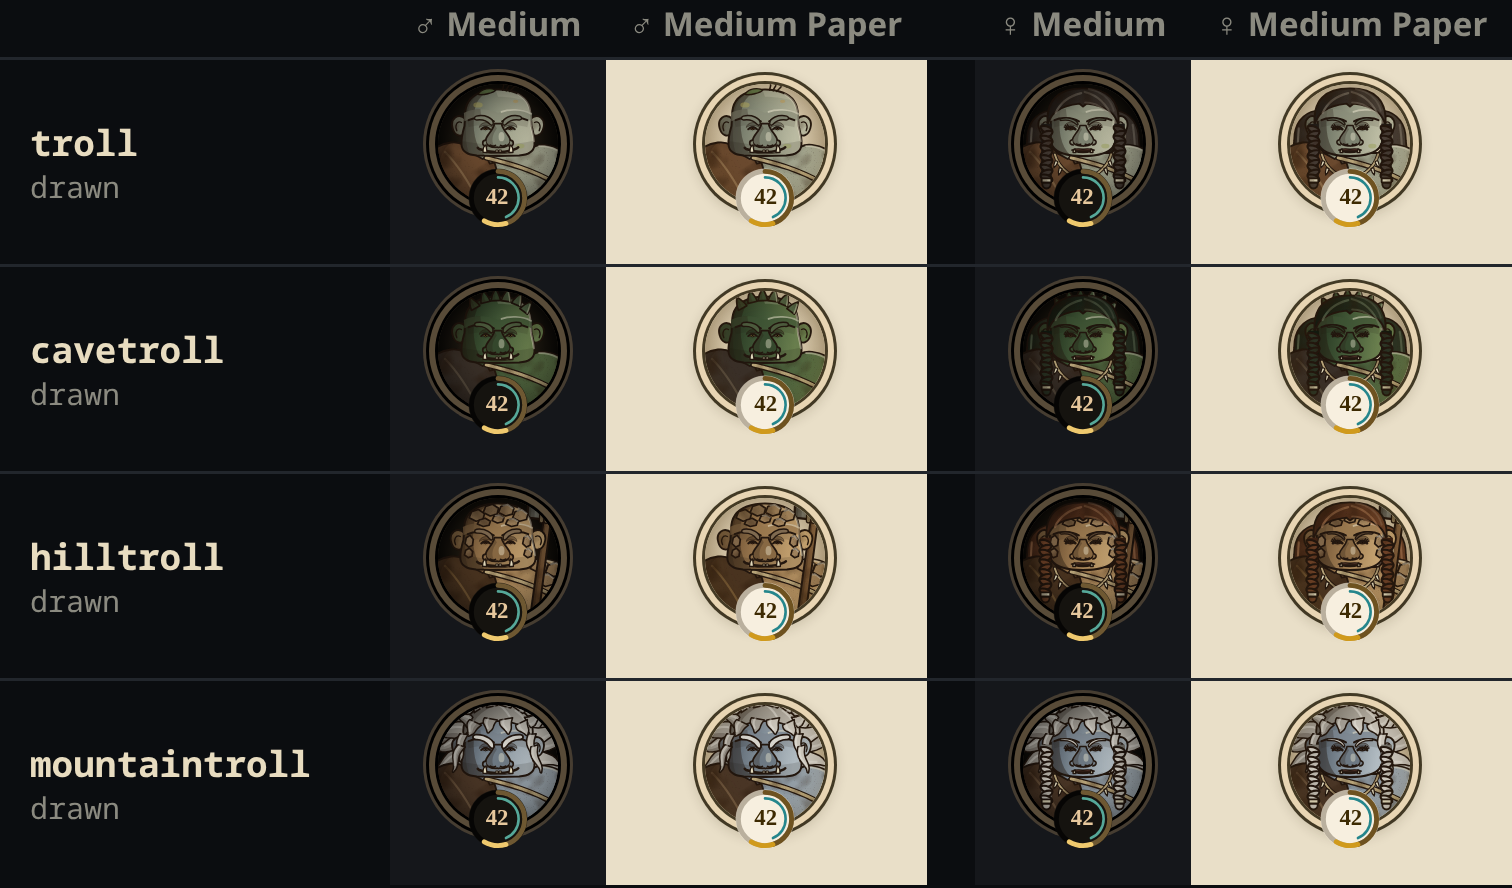
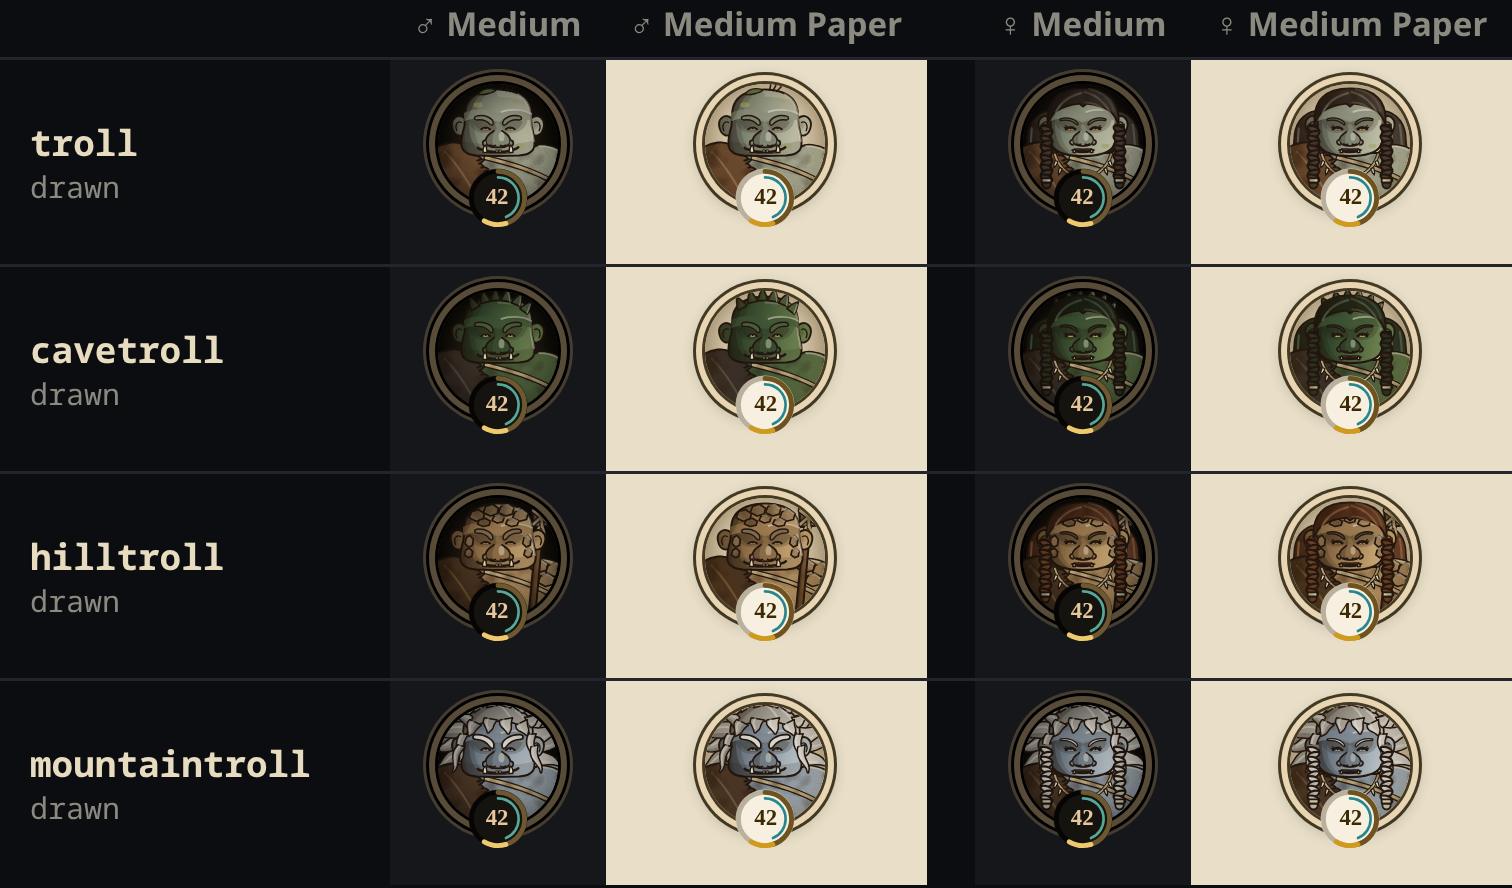
fix(portraits): trolls without spectacles, a curved cheek shade, a square maul, a ragged pelt
Claude-Session: https://claude.ai/code/session_01Fx3riSE2eMf87VxUMhb19J

diff --git a/notes/research/portraits/stage/draw/trolls.ts b/notes/research/portraits/stage/draw/trolls.ts
@@ -18,7 +18,7 @@
 
 import type { Draw, PortraitSet } from '../../../../../src/panes/portraits/types';
 import { dark, light } from '../../../../../src/art/engrave';
-import { type BrowO, type Ctx, type EyeO, type HairCols, INK, baseDefs, braid, ctx, eyes, lg, longHair, mir, mix, n, pen, strands, svg, wx } from '../parts';
+import { type BrowO, type Ctx, type EyeO, type HairCols, INK, baseDefs, braid, brow, ctx, lg, longHair, mir, mix, n, pen, strands, svg, wx } from '../parts';
 
 /** One troll: everything a kind or a sex changes. */
 interface Spec {
@@ -78,8 +78,9 @@ const mirG = (s: string): string => `<g transform="scale(-1,1)">${s}</g>`;
 
 const face = (c: Ctx, s: Spec): string => {
   const j = s.jaw, t = s.tall, top = -64 - t, F = headPath(c, s);
-  const sh = wx(`M-30,${top + 3}C-46,${top + 9} -56,-42 -56,-22L-57,-4C-60,6 -63,16 -62,28C-61,39 -51,45 -36,46L-22,46C-40,30 -44,0 -40,-28C-38,-46 -30,${top + 8} -14,${top - 1}Z`, j);
-  const edge = wx(`M-30,${top + 3}C-46,${top + 9} -56,-42 -56,-22L-57,-4C-60,6 -63,16 -62,28C-61,36 -56,42 -48,44C-56,30 -56,0 -52,-24C-50,-40 -42,${top + 9} -24,${top + 1}Z`, j);
+  const sh = wx(`M-30,${top + 3}C-46,${top + 9} -56,-42 -56,-22L-57,-4C-60,6 -63,16 -62,28C-61,39 -51,45 -36,46C-24,47 -14,47 -6,46C-28,40 -38,24 -40,4C-42,-20 -36,${top + 18} -12,${top - 1}Z`, j);
+  const mid = wx(`M-30,${top + 3}C-46,${top + 9} -56,-42 -56,-22L-57,-4C-60,6 -63,16 -62,28C-61,39 -51,45 -36,46C-30,46 -24,46 -20,45C-40,36 -48,18 -49,0C-50,-22 -44,${top + 14} -22,${top + 1}Z`, j);
+  const edge = wx(`M-30,${top + 3}C-46,${top + 9} -56,-42 -56,-22L-57,-4C-60,6 -63,16 -62,28C-61,36 -56,42 -48,44C-57,32 -58,10 -56,-8C-55,-30 -48,${top + 10} -26,${top + 2}Z`, j);
   const scales = s.top === 'scales' ? `<path d="${F}" fill="${c.url('z')}" stroke="none"/>` : '';
   // the brow ledge, a shelf of stone over the eyes, and its shadow
   const ledge = wx('M-58,-26C-44,-36 -14,-34 0,-26C14,-34 44,-36 58,-26L57,-12C44,-19 16,-18 0,-10C-16,-18 -44,-19 -57,-12Z', j);
@@ -91,25 +92,36 @@ const face = (c: Ctx, s: Spec): string => {
   const jaw = c.fem
     ? `<path d="${wx('M-36,38C-24,45 -10,47 0,47C12,47 26,44 36,38C26,46 12,50 0,50C-12,50 -26,46 -36,38Z', j)}" fill="#1e170f" opacity=".22" stroke="none"/>`
     : `<path d="${wx('M-60,22Q0,34 61,21C62,32 54,44 36,46L0,47L-36,46C-54,44 -61,34 -60,22Z', j)}" fill="#1e170f" opacity=".14" stroke="none"/>`;
-  return `<path d="${F}" fill="${c.url('s')}" stroke-width="1.3"/>${scales}<path d="${sh}" fill="#1e170f" opacity=".22" stroke="none"/><path d="${sh}" fill="${c.url('p')}" stroke="none"/><path d="${edge}" fill="${c.url('q')}" stroke="none"/>` +
+  return `<path d="${F}" fill="${c.url('s')}" stroke-width="1.3"/>${scales}<path d="${sh}" fill="#1e170f" opacity=".16" stroke="none"/><path d="${mid}" fill="#1e170f" opacity=".1" stroke="none"/><path d="${mid}" fill="${c.url('p')}" stroke="none"/><path d="${edge}" fill="${c.url('q')}" stroke="none"/>` +
     `<path d="${wx(`M-4,${top - 1}C14,${top - 1} 34,${top + 5} 46,${top + 16}C38,${top + 14} 20,${top + 10} 0,${top + 10}Z`, j)}" fill="#f4eed6" opacity=".2" stroke="none"/>` +
     `<path d="${wx(`M34,${top + 6}C48,${top + 14} 55,-40 55,-24L56,-4C58,6 60,14 61,22`, j)}" fill="none" stroke="#f6f0d8" stroke-width="1.3" opacity=".45"/>` +
     jaw + lichen + cracks +
-    `<path d="${wx('M-52,-13C-36,-19 -14,-17 0,-9C14,-17 36,-19 52,-13L50,-2C34,-7 14,-5 0,2C-14,-5 -34,-7 -50,-2Z', j)}" fill="#1e170f" opacity="${c.med ? .12 : .26}" stroke="none"/>` +
-    `<path d="${ledge}" fill="${dark(s.skin[1], .03)}" opacity=".7" stroke="none"/>${s.top === 'scales' ? `<path d="${ledge}" fill="${c.url('z')}" stroke="none"/>` : ''}<path d="${wx('M-58,-26C-50,-31 -40,-33 -30,-33L-28,-17C-38,-17 -48,-15 -57,-12Z', j)}" fill="${c.url('p')}" stroke="none"/>` +
-    `<path d="${wx('M6,-28C18,-33 42,-33 56,-25', j)}" fill="none" stroke="#f6f0d8" stroke-width="1.2" opacity=".5"/><path d="${wx('M-50,-14C-40,-19 -20,-19 -7,-12M50,-14C40,-19 20,-19 7,-12', j)}" fill="none" stroke-width="1.3"/>` +
+    `<path d="${wx('M-50,-15C-34,-21 -12,-19 0,-13C12,-19 34,-21 50,-15C49,-4 40,7 24,8C14,8.5 7,5 0,4C-7,5 -14,8.5 -24,8C-40,7 -49,-4 -50,-15Z', j)}" fill="#1e170f" opacity=".2" stroke="none"/>` +
+    `<path d="${wx('M-42,-12C-30,-17 -12,-15 0,-10C12,-15 30,-17 42,-12C40,-3 32,4 22,4.5C13,5 6,2 0,1C-6,2 -13,5 -22,4.5C-32,4 -40,-3 -42,-12Z', j)}" fill="#1e170f" opacity=".22" stroke="none"/>` +
+    `<path d="${ledge}" fill="${dark(s.skin[1], .03)}" opacity=".7" stroke="none"/>${s.top === 'scales' ? `<path d="${ledge}" fill="${c.url('z')}" stroke="none"/>` : ''}<path d="${wx('M-58,-26C-54,-29 -50,-31 -46,-32C-48,-26 -50,-20 -56,-13Z', j)}" fill="${c.url('q')}" stroke="none"/>` +
+    `<path d="${wx('M6,-28C18,-33 42,-33 56,-25', j)}" fill="none" stroke="#f6f0d8" stroke-width="1.2" opacity=".5"/>` +
     c.fine(`<path d="${wx('M-20,-24C-10,-27 10,-27 20,-24M-16,-20C-6,-22 6,-22 16,-20', j)}" fill="none" stroke-width=".6" opacity=".55"/><path d="M-30,16C-36,20 -40,28 -42,36M30,16C36,20 40,28 42,36" fill="none" stroke-width=".7" opacity="${c.fem ? .4 : .75}"/>`);
+};
+
+// ---- the eye: small and deep, a glint in the ledge's shadow; no socket ring, no outline round it ----
+const tEye = (c: Ctx, side: number, s: Spec): string => {
+  const o: EyeO = s.eye, lid = o.lid ?? 2, low = o.low ?? 0, k = (o.size ?? .8) * (c.fem ? 1.06 : 1);
+  const lash = c.fem ? `<path d="M${7 * side},-2.5l${3 * side},-3M${8.4 * side},-.6l${3.6 * side},-1.4" fill="none" stroke="${INK}" stroke-width="1"/>` : '';
+  return `<g transform="translate(${21 * side},0) scale(${k})"><g clip-path="${c.url('c')}"><path d="M-9,-6H9V6H-9Z" fill="#cbbf9e" stroke="none"/><path d="M-10,-6H10V-.8H-10Z" fill="#3d281b" opacity=".4" stroke="none"/>
+<circle r="3.8" fill="${o.iris ?? '#a06a1e'}" stroke="none"/><circle r="1.8" fill="#0c0705" stroke="none"/><circle cx="-1.2" cy="-1.4" r="1" fill="#fff8e6" stroke="none"/>
+<path d="M-12,${-22 + lid}H12V${-5.5 + lid}Q0,${-3.5 + lid} -12,${-5.5 + lid}Z" fill="${dark(s.skin[1], .14)}" stroke="none"/><path d="M-12,${18 - low}H12V${5 - low}Q0,${4 - low} -12,${5 - low}Z" fill="${dark(s.skin[1], .06)}" stroke="none"/></g>
+<path d="M-9.5,${n(.6 + lid * .5)}Q0,${n(-8.8 + lid)} 9.5,${n(.6 + lid * .5)}" fill="none" stroke="${INK}" stroke-width="${c.fem ? 1.9 : 1.5}"/>${lash}</g>`;
 };
 
 // ---- the nose: broad, flat, the balloon's ----
 const nose = (c: Ctx, s: Spec): string => {
   const [sk0, sk1] = s.skin;
   const k = c.fem ? .86 : 1;
-  return `<g transform="translate(0,${c.fem ? 2 : 0}) scale(${k})"><path d="M-6,-8C-8,4 -19,10 -21,20C-22,29 -11,33 -1,32C0,33 1,33 2,32C11,33 22,29 21,20C19,10 8,4 6,-8Z" fill="${mix(sk0, sk1, .62)}" stroke-width="1.2"/>
+  return `<g transform="translate(0,${c.fem ? 2 : 0}) scale(${k})"><path d="M0,-12C-6,-8 -8,4 -19,10C-22,14 -22,26 -16,30C-11,33 -4,33 -1,32C0,33 1,33 2,32C4,33 11,33 16,30C22,26 22,14 19,10C8,4 6,-8 0,-12Z" fill="${mix(sk0, sk1, .62)}" opacity=".9" stroke="none"/><path d="M-7,4C-10,8 -19,10 -21,20C-22,29 -11,33 -1,32C0,33 1,33 2,32C11,33 22,29 21,20C19,10 10,8 7,4" fill="none" stroke-width="1.2"/>
 <path d="M-21,20C-28,21 -28,30 -19,30.5M21,20C28,21 28,30 19,30.5" fill="${dark(sk1, .12)}" stroke-width="1.1"/>
 <path d="M-6,-8C-8,4 -19,10 -21,20C-22,29 -11,33 -4,32C-12,25 -11,12 -2,0Z" fill="${c.url('p')}" stroke="none"/>
 <ellipse cx="6" cy="14" rx="5" ry="8" fill="#f3edd4" opacity=".4" stroke="none"/>
-<path d="M-13,28.5q4,3 8.5,.5M13,28.5q-4,3 -8.5,.5" fill="none" stroke-width="1.2"/>${c.fine('<circle cx="11" cy="4" r="1.8" fill="#8f917a" stroke-width=".5"/><path d="M-2,6q3,6 1.5,12" fill="none" stroke-width=".5" opacity=".6"/>')}</g>`;
+<path d="M-13,28.5q4,3 8.5,.5M13,28.5q-4,3 -8.5,.5" fill="none" stroke-width="1.2"/>${c.fine('<path d="M-2,6q3,6 1.5,12" fill="none" stroke-width=".5" opacity=".6"/>')}</g>`;
 };
 
 // ---- the mouth: wide, an underbite, two tusks; the women's with lips and small tusks ----
@@ -139,11 +151,25 @@ const fur = (seed: number, x0: number, x1: number, y0: number, y1: number, insid
   }
   return [d, l];
 };
+/** A ragged fur edge from (x0,y0) to (x1,y1): tufts of uneven size and lean, pointing out to the right. */
+const ragged = (x0: number, y0: number, x1: number, y1: number, seed: number): string => {
+  const r = rnd(seed), dx = x1 - x0, dy = y1 - y0, len = Math.hypot(dx, dy), nx = dy / len, ny = -dx / len;
+  let d = '', t = 0;
+  while (t < 1) {
+    const step = (.035 + r() * .05), t1 = Math.min(1, t + step), tm = (t + t1) / 2 + (r() - .5) * step * .5;
+    const amp = 3 + r() * 9, lean = 2 + r() * 5;
+    const tip = [x0 + dx * tm + nx * amp + lean * dx / len, y0 + dy * tm + ny * amp + lean * dy / len];
+    const e = [x0 + dx * t1 + nx * (r() - .5) * 2, y0 + dy * t1 + ny * (r() - .5) * 2];
+    d += `Q${n(x0 + dx * t + nx * amp * .7)},${n(y0 + dy * t + ny * amp * .7)} ${n(tip[0]!)},${n(tip[1]!)}Q${n(tip[0]! - nx * amp * .3)},${n(tip[1]! - ny * amp * .3 + 2)} ${n(e[0]!)},${n(e[1]!)}`;
+    t = t1;
+  }
+  return d;
+};
 const bust = (c: Ctx, s: Spec): string => {
   const BODY = 'M-132,160L-132,80C-130,50 -110,32 -80,28C-66,26 -56,32 -48,42L48,42C56,32 66,26 80,28C110,32 130,50 132,80L132,160Z';
   const SH = 'M-132,160L-132,80C-130,50 -110,32 -80,28C-66,26 -56,32 -48,42L-30,42C-60,60 -80,100 -78,160Z';
   // the pelt: over the left shoulder and down across the chest, its edge ragged
-  const PELT = 'M-132,160L-132,78C-130,48 -110,28 -80,24C-64,22 -52,30 -44,42L-26,52L-20,48L-14,60L-6,58L-2,72L6,72L8,86L16,88L16,102L24,106L22,120L30,126L28,140L36,146L34,160Z';
+  const PELT = 'M-132,160L-132,78C-130,48 -110,28 -80,24C-64,22 -52,30 -44,42' + ragged(-44, 42, 34, 160, 17) + 'Z';
   const [fd, fl] = fur(31 + s.tall, -128, 30, 26, 158, (x, y) => x < -10 + (y - 50) * .4 && x > -128, c.med ? 0 : 110);
   const pelt = `<path d="${PELT}" fill="${s.pelt[0]}" stroke-width="1.2"/><path d="M-132,160L-132,78C-130,48 -110,28 -80,24C-100,40 -110,70 -104,160Z" fill="${c.url('p')}" stroke="none"/><path d="M-132,160L-132,78C-130,54 -122,40 -108,30C-120,50 -124,90 -120,160Z" fill="${c.url('q')}" stroke="none"/>` +
     (c.med
@@ -270,13 +296,15 @@ const braids = (c: Ctx, s: Spec): string => {
 
 // ---- the hill troll's hammer: a stone maul lashed to a log, the haft over the shoulder ----
 const hammer = (c: Ctx): string => {
-  const HAFT = 'M50,160L78,-40L90,-38L64,162Z';
-  const HEAD = 'M52,-80L104,-73L103,-36L50,-42Z';
-  return `<path d="${HAFT}" fill="${c.url('w')}" stroke-width="1.3"/><path d="M50,160L78,-40L82,-39.5L56,161Z" fill="${c.url('p')}" stroke="none"/>` +
-    c.fine('<path d="M70,60l3,-10M76,20l2,-8M62,110l2,-9" fill="none" stroke-width=".6" opacity=".7"/>') +
-    `<path d="${HEAD}" fill="${c.url('g')}" stroke-width="1.5"/><path d="M52,-80L64,-78.5L62,-40.5L50,-42Z" fill="${c.url('p')}" stroke="none"/><path d="M52,-80L58,-79L56,-41L50,-42Z" fill="${c.url('q')}" stroke="none"/><path d="M68,-78L103,-73L103,-52" fill="none" stroke="#fff6dc" stroke-width="1.3" opacity=".45"/>` +
-    c.fine('<path d="M58,-70l6,4l-2,6M98,-58l-5,4l3,5M88,-42l4,-4" fill="none" stroke-width=".6" opacity=".75"/>') +
-    `<path d="M76,-79L74,-37M84,-78L82,-36" fill="none" stroke-width="3.6"/><path d="M76,-79L74,-37M84,-78L82,-36" fill="none" stroke="#b9a57a" stroke-width="2" stroke-dasharray="2.6 1.2"/>`;
+  const HAFT = 'M48,160L70,-58L80,-57L60,161Z';
+  // the maul: a blunt, roughly square stone, lashed on with crossed thongs
+  const HEAD = 'M58,-58L88,-61L91,-29L60,-26Z';
+  return `<path d="${HAFT}" fill="${c.url('w')}" stroke-width="1.3"/><path d="M48,160L70,-58L73,-57.7L52,160.5Z" fill="${c.url('p')}" stroke="none"/>` +
+    c.fine('<path d="M66,40l2,-9M62,100l2,-9" fill="none" stroke-width=".6" opacity=".7"/>') +
+    `<path d="${HEAD}" fill="${c.url('g')}" stroke-width="1.5"/><path d="M58,-58L66,-58.8L67,-26.7L60,-26Z" fill="${c.url('p')}" stroke="none"/><path d="M66,-59L88,-61L90,-40" fill="none" stroke="#fff6dc" stroke-width="1.3" opacity=".45"/>` +
+    c.fine('<path d="M63,-50l4,3l-1,5M84,-36l-3,-4" fill="none" stroke-width=".6" opacity=".75"/>') +
+    `<path d="M60,-54L89,-31M60,-31L88,-56M73,-61L75,-26" fill="none" stroke-width="3.4"/><path d="M60,-54L89,-31M60,-31L88,-56M73,-61L75,-26" fill="none" stroke="#b9a57a" stroke-width="1.8" stroke-dasharray="2.6 1.2"/>` +
+    '<path d="M70,-26C66,-20 64,-14 66,-8M76,-26C78,-20 80,-16 78,-10" fill="none" stroke="#b9a57a" stroke-width="1.4"/>';
 };
 
 // ---- the whole figure ----
@@ -291,7 +319,7 @@ const draw = (s: Spec): Draw => (o) => {
     pen(c, ears(c, s)) + pen(c, face(c, s), true) + pen(c, top) +
     (hairTop ? pen(c, hairTop, s.pale) : '') + (s.top === 'mane' ? pen(c, shag(c, s), s.pale) : '') +
     pen(c, nose(c, s) + mouth(c, s), true) +
-    pen(c, eyes(c, { lidFill: dark(s.skin[1], .1), lowFill: s.skin[1], ...s.eye, socket: c.med ? s.skin[0] : s.eye.socket, lash: c.fem, size: (s.eye.size ?? .8) * (c.fem ? 1.06 : 1) }, s.brow), true) +
+    pen(c, tEye(c, -1, s) + tEye(c, 1, s) + brow(c, -1, s.brow) + brow(c, 1, s.brow), true) +
     (c.fem ? pen(c, braids(c, s), s.pale) : '');
   return svg(c, defs(c, s), body);
 };
